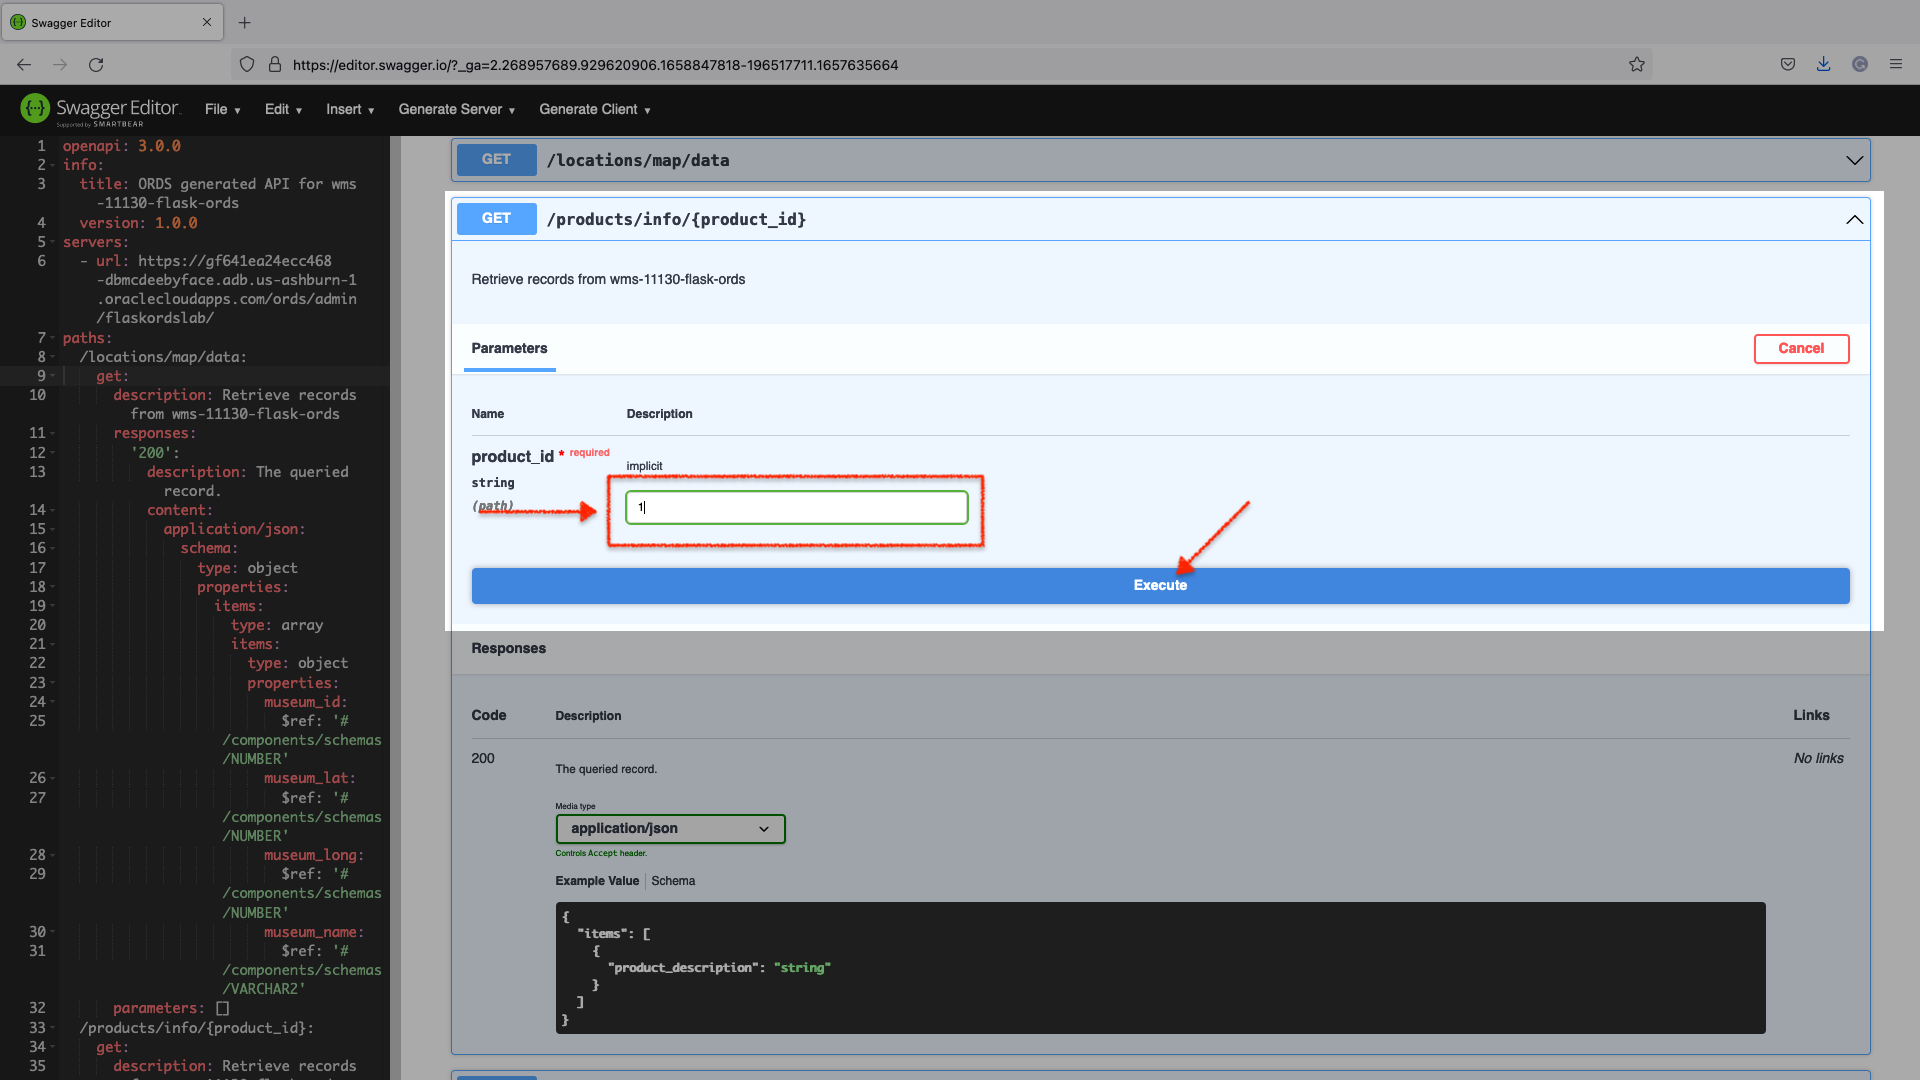
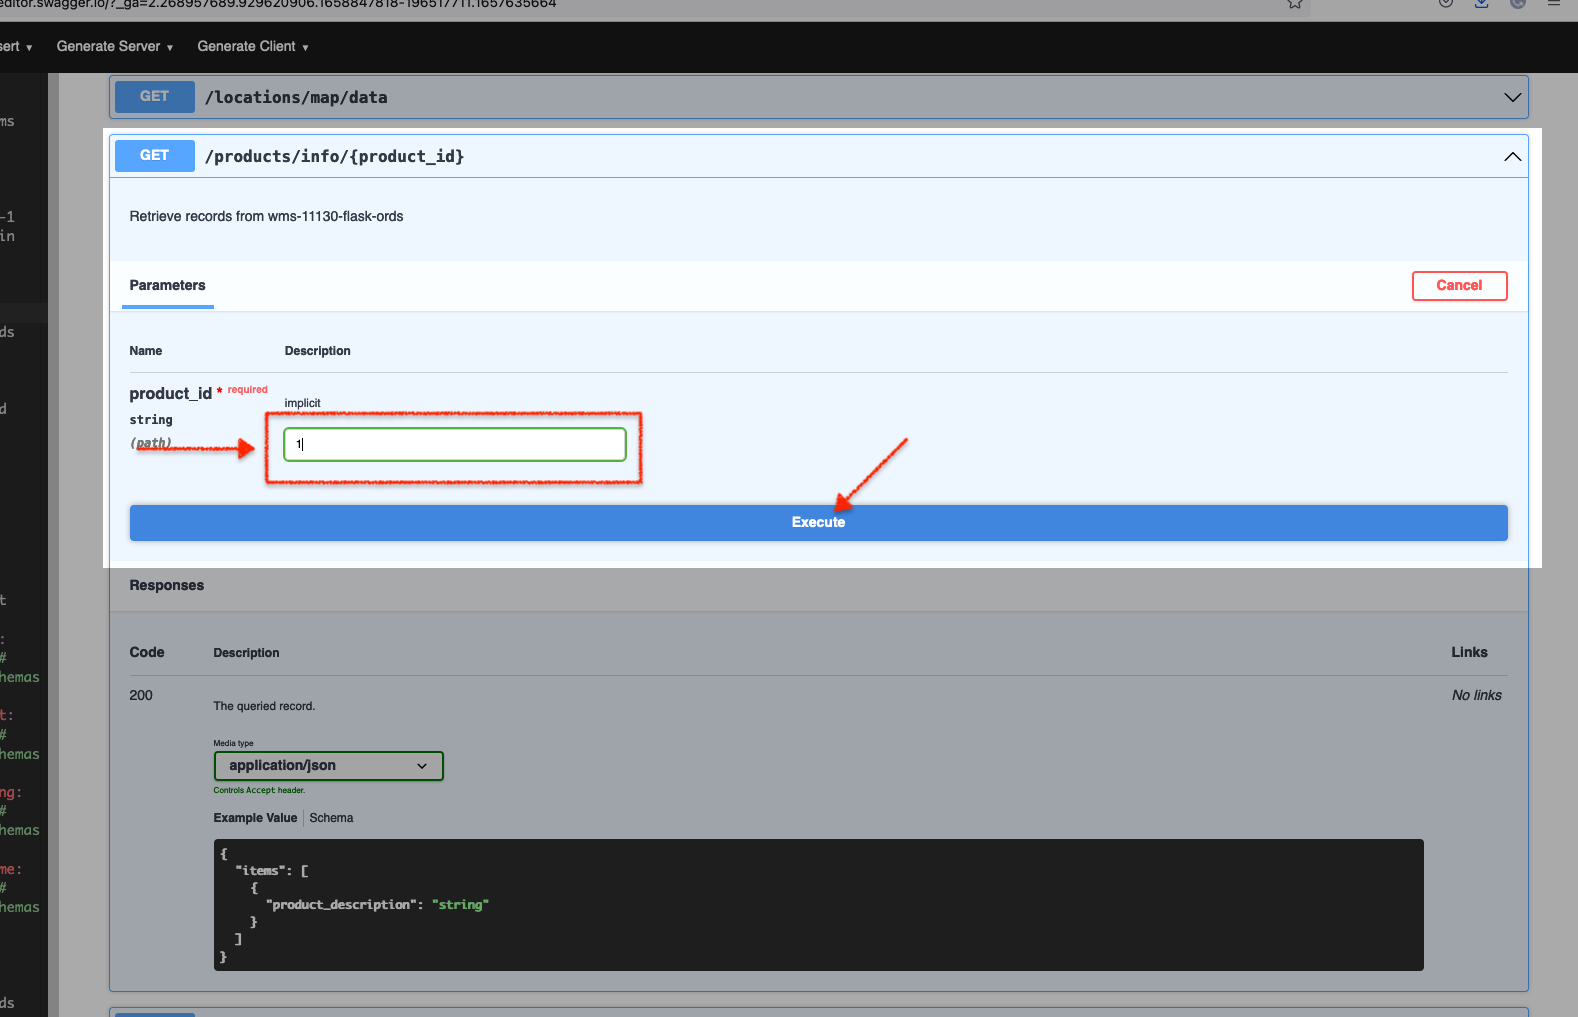
md and image updates

diff --git a/python-flask-web-application-with-ords-apis/workshop-working-copy/review-ords-apis/review-ords-apis.md b/python-flask-web-application-with-ords-apis/workshop-working-copy/review-ords-apis/review-ords-apis.md
@@ -94,11 +94,11 @@ For this lab we'll rely on Swagger's Open Source Editor to review our ORDS Base 
 
       ![The OpenAPI info](images/open-api-paths.png)
 
-    - `components` - here you can review the components, or those <i>globally-defined</i> parameters that may be shared across the various Paths and their HTTPS Operations. 
+    - `components` - here you can review the components, or those <i>globally-defined</i> parameters that may be shared across the various Paths and their HTTPS Operations.
 
       ![The OpenAPI info](images/open-api-components.png)
 
-## Task 3: Explore ORDS Templates and Handlers 
+## Task 3: Explore ORDS Templates and Handlers
 
 1. Locate the Paths
 
@@ -112,7 +112,7 @@ For this lab we'll rely on Swagger's Open Source Editor to review our ORDS Base 
 
 2. Explore the Paths
 
-    Here we'll briefly review each Paths (recall there are <i>four</i> Resource Templates) and discuss their importance to the Flask application. 
+    Here we'll briefly selected Paths (recall there are <i>four</i> Resource Templates) and discuss their importance to the Flask application.
 
       1. `GET` `/locations/map/data`
 
@@ -132,47 +132,49 @@ For this lab we'll rely on Swagger's Open Source Editor to review our ORDS Base 
 
           4. Scroll down slightly, to see the <b>Response Body</b> of the `GET` request. What does this payload look like it could be used for? If you guessed a map rendering, then you're correct. We'll use this information to populate a Folium map for our Flask application's main page (aka `index.html`)
 
+              ![The OpenAPI info](images/get-path-for-folium-response.png)
+
               :bulb: <i>Folium is a Python library, based on the Lealflet.js, used for visualizing data on interactive Leaflet maps. Refer to the "Learn More" section for details.</i>
-              
+
       2. `GET` `/products/info/{product_id}`
-      3. `GET` `/products/value/{product_id}`
-      4. `POST` `/purchases/history`
-      5. `GET` `/purchases/history`
 
+          1. Once you've expanded this window, click `Try it out`. Notice the input field for an Implicit Parameter; we'll be updating this shortly. 
+          
+              ![The OpenAPI info](images/get-path-product-info.png)
 
+          2. Your Flask application has three different products, each with their own Product ID (i.e. `product_id`). For testing this Path, input the number`1`. And then click `Execute`.
+          
+              ![The OpenAPI info](images/get-path-product-info-execute.png)
 
-      1. Expand the 'GET' '/locations/map/data` Template 
+          3. Notice how the Request URL has changed slightly, to include the `product_id` we included. Next, take a look at the Server response. You'll see the `product_description` for this product.
 
-  :bulb: Note: Since there is only one path (`GET`), the Resource Template and Path are one in the same. <i>However</i> if an additional 
+          You'll see this `product_description` later in the HTML page for ordering/purchasing.Each time a product is selected/changed a separate API call is executed to return back the description for that product.
 
+          A similar Path has been created for `GET` `/products/value/{product_id}`. But instead of a product description, the unit price for a product is returned. 
+          
+              ![The OpenAPI info](images/get-path-product-info-response.png)
 
-  Use tables sparingly:
+      3. `POST` `/purchases/history`
 
-  | Column 1 | Column 2 | Column 3 |
-  | --- | --- | --- |
-  | 1 | Some text or a link | More text  |
-  | 2 |Some text or a link | More text |
-  | 3 | Some text or a link | More text |
+          1. Next we'll review the `/purchases/history` Path. Recall this Path has both a `GET` and a `POST` request. We'll review the `POST` request for this example. 
+          
+              Expand the window and click `Try it out`. Notice the Example Value - Schema. This is what a JSON object would look like when `POST` requests are send.
+          
+              ![The OpenAPI info](images/post-purchase-history.png)
 
-2. You can also include bulleted lists - make sure to indent 4 spaces:
+          2. After clicking `Try it out` the Request body will expand and have a placeholder array. We'll remove this for our test `POST` request. 
+          
+              ![The OpenAPI info](images/post-purchase-history-execute.png)
 
-    - List item 1
-    - List item 2
+          3. You may leave the `{}` in place, and click `Execute`. We have included SQL in our database to accept an empty array for testing purposes. This way, the `POST` request will be a success (as indicated by our `200` Server Response Code).
+                        
+              ![The OpenAPI info](images/post-purchase-history-remove-payload-execute.png)
 
-3. Code examples
+          4. Once the `POST` completes, you'll see in the Response body, a `201` Server Response code which indicates that a new resource was created. The action we just performed mirrors what customer would do should they complete a transaction in our sample Flask application.
 
-    ```
-    Adding code examples
-  	Indentation is important for the code example to appear inside the step
-    Multiple lines of code
-  	<copy>Enclose the text you want to copy in <copy></copy>.</copy>
-    ```
+              ![The OpenAPI info](images/post-purchase-history-response.png)
 
-4. Code examples that include variables
-
-	```
-  <copy>ssh -i <ssh-key-file></copy>
-  ```
+  :bulb: <i>Recall that the `/purchases/history` Path has both a `GET` and a `POST` Operation. The steps for the `GET` of this Path are similar to what we explored in the `/locations/map/data` Path.</i>
 
 ## Learn More
 
@@ -181,31 +183,6 @@ For this lab we'll rely on Swagger's Open Source Editor to review our ORDS Base 
 * [About ORDS Resource Templates and Handlers](https://docs.oracle.com/en/database/oracle/oracle-rest-data-services/22.2/orddg/developing-REST-applications.html#GUID-50E24524-32BB-470D-8015-6C25C9B47A44)
 * [About Folium](http://python-visualization.github.io/folium/)
 * [About Leaflet.js](https://leafletjs.com/)
-
-
-* [About cURL](https://curl.se/)
-* [About Python](https://www.python.org/)
-* [About Flask for Python](https://flask.palletsprojects.com/en/2.1.x/)
-* [About Folium for Python](https://github.com/python-visualization/folium)
-* [About Json for Python ](https://docs.python.org/3/library/json.html)
-* [About Requests for Python](https://requests.readthedocs.io/en/latest/)
-* [About Bootstrap](https://getbootstrap.com/docs/5.2/getting-started/introduction/)
-* [Mozilla Developer Network (MDN) Web Docs](https://developer.mozilla.org/en-US/)
-
-Oracle REST Data Services (ORDS)
-Oracle Clould Infrastructure (OCI) <i>Always Free</i> Tier Tenancy
-Datbase Actions
-<!-- I'm actually not sure about cURL, but I don't want to forget it -->
-<!-- Make sure any changes here are also included in the Learn More section - we'll want to include those resources as well  -->
-- cURL
-- Python 3.10.x and later 
-- Python packages (libraries) such as: 
-  - Flask 
-  - Folium 
-  - Json
- - Requests 
-- <i>select</i>JavaScript functions 
-- Bootstrap HTML and CSS frameworks
 
 ## Acknowledgements
 * **Author** - <Name, Title, Group>
